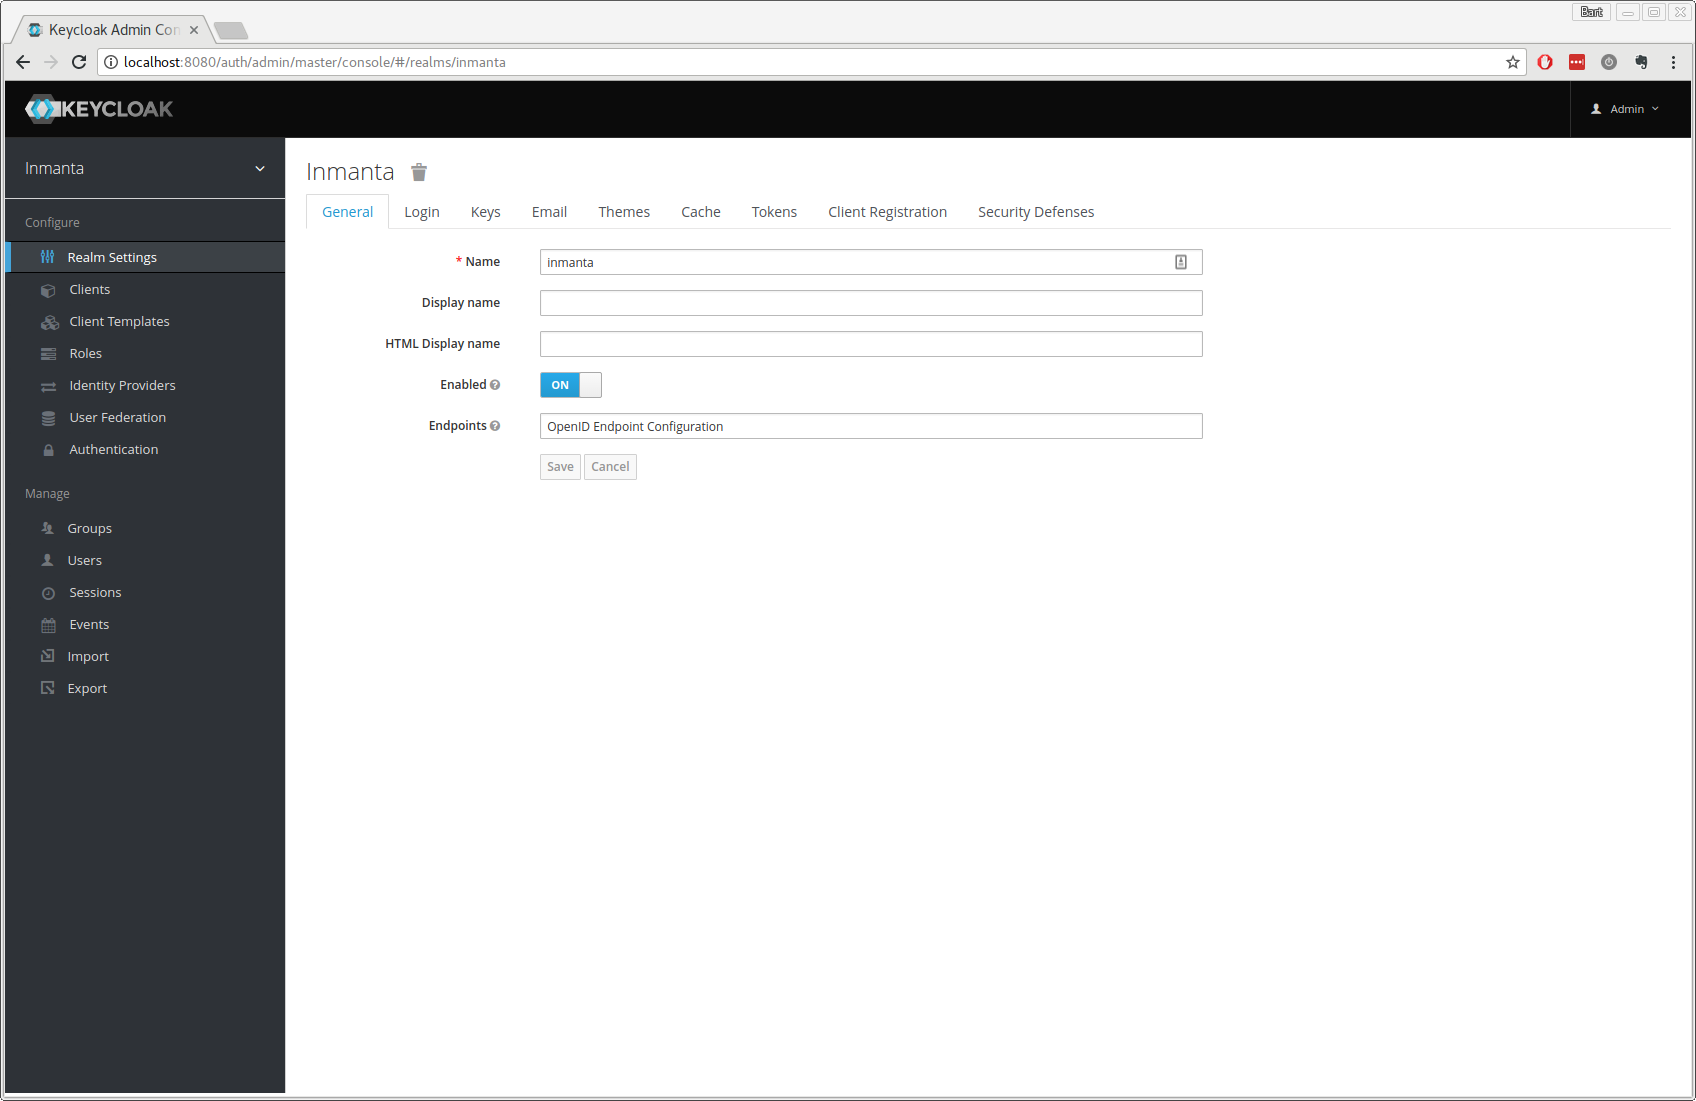
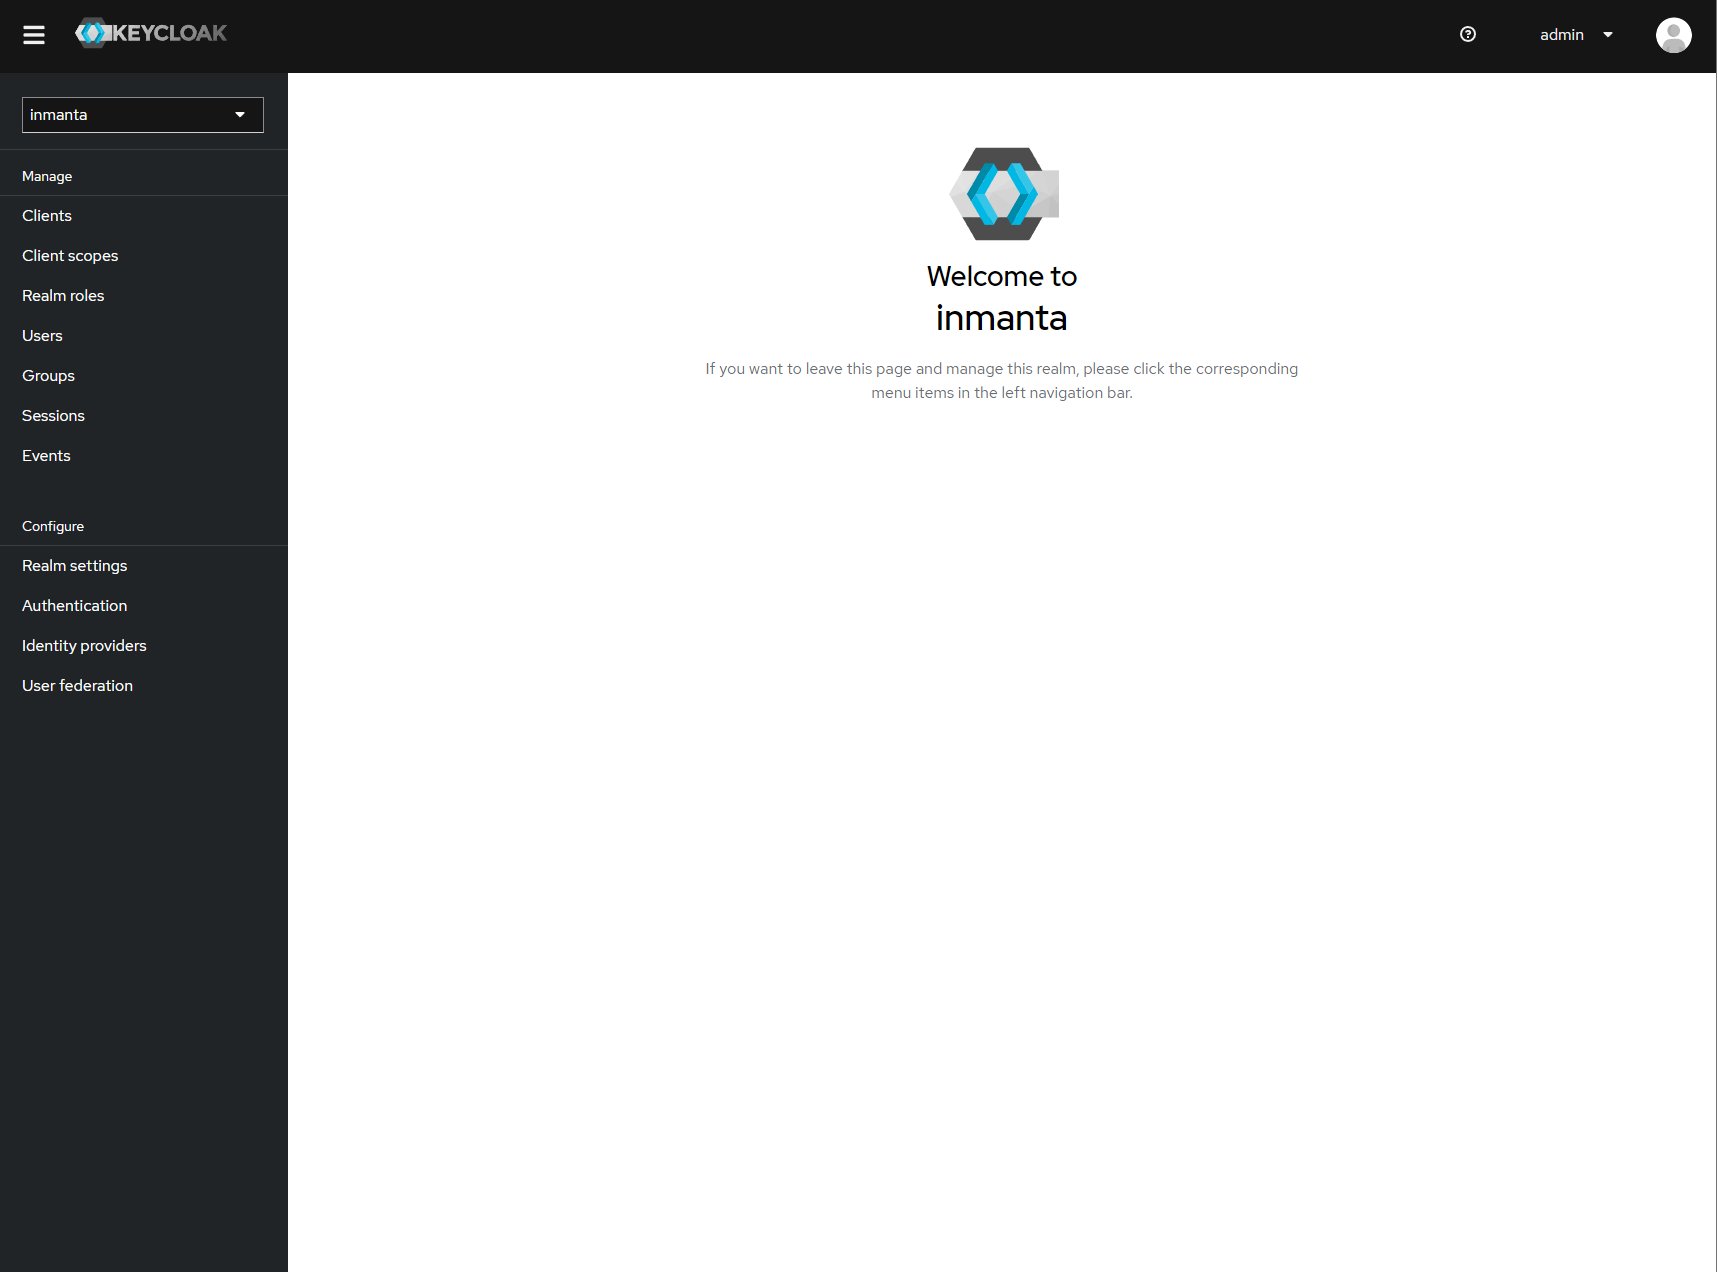
Update the documentation about setting up authentication, to use Keycloak version 20.0 (PR #6165)
# Description

This PR updates the documentation to setup Keycloak. Most of the documentation was still accurate, the screenshots and links have been updated to match Keycloak 20.0 UI.

diff --git a/docs/administrators/auth.rst b/docs/administrators/auth.rst
@@ -172,7 +172,7 @@ Keycloak configuration
 The web-console has out of the box support for authentication with `Keycloak <http://www.keycloak.org>`_. Install keycloak and
 create an initial login as described in the Keycloak documentation and login with admin credentials.
 
-This guide was made based on Keycloak 3.3
+This guide was made based on Keycloak 20.0
 
 If inmanta is configured to use SSL, the authentication provider should also use SSL. Otherwise, the web-console will not be
 able to fetch user information from the authentication provider.
@@ -203,16 +203,15 @@ For example call the realm inmanta
 Step 2: Add a new client to keycloak
 ^^^^^^^^^^^^^^^^^^^^^^^^^^^^^^^^^^^^
 
-Make sure the correct realm is active (the name is shown in the title of the left sidebar) to which you want to add a new client.
+Make sure the correct realm is active (the name is shown in the realm selection dropdown) to which you want to add a new client.
 
 .. figure:: /administrators/images/kc_start.png
    :width: 100%
    :align: center
 
-   The start page of a realm. Here you can edit names, policies, ... of the realm. The defaults are sufficient for inmanta
-   authentication. This shows the inmanta realm.
+   The start page of your newly created realm.
 
-Go to client and click create on the right hand side of the screen.
+Go to clients and click create on the right hand side of the screen.
 
 .. figure:: /administrators/images/kc_clients.png
    :width: 100%
@@ -228,17 +227,28 @@ Provide an id for the client and make sure that the client protocol is ``openid-
 
    Create client screen
 
-After clicking save, keycloak opens the configuration of the client. Modify the client to allow implicit flows and add
-vallid callback URLs. As a best practice, also add the allowed origins. See the screenshot below as an example.
+After clicking save, keycloak opens the configuration of the client. Modify the client to allow implicit flows and add valid redirect URIs and valid post logout redirect URIs. As a best practice, also add the allowed web origins. See the screenshot below as an example.
 
 .. figure:: /administrators/images/kc_client_details.png
    :width: 100%
    :align: center
 
+
+.. figure:: /administrators/images/kc_client_details2.png
+   :width: 100%
+   :align: center
+
    Allow implicit flows (others may be disabled) and configure allowed callback urls of the web-console.
 
-Add a mapper to add custom claims to the issued tokens for the API client type. Open de mappers tab of your new client and click
-`add`.
+Go to the client scopes in your Client details.
+
+.. figure:: /administrators/images/kc_client_scopes.png
+   :width: 100%
+   :align: center
+
+   Click on inmantaso-dedicated to edit the dedicated scope and mappers.
+
+Add a mapper to add custom claims to the issued tokens for the API client type. Click on adding a new mapper and select By Configuration.
 
 .. figure:: /administrators/images/kc_mappers.png
    :width: 100%
@@ -255,28 +265,33 @@ added to the access token.
 
    Add the ct claim to all access tokens for this client.
 
-Add a second mapper to add inmanta to the audience (only required for Keycloak 4.6 and higher). Click `add` again as in the
-previous step. Fill in the following values:
+Add a second mapper to add inmanta to the audience (only required for Keycloak 4.6 and higher). Click `add` again as in the previous step. 
 
-* Name: inmanta-audience
-* Mapper type: Audience
-* Included Client Audience: inmanta
-* Add to access token: on
+.. figure:: /administrators/images/kc_audience_mapper.png
+   :width: 100%
+   :align: center
+      
+   Fill in the following values:
+
+   * Name: inmanta-audience
+   * Mapper type: Audience
+   * Included Client Audience: inmanta
+   * Add to access token: on
 
 Click save.
 
 Step 3: Configure inmanta server
 ^^^^^^^^^^^^^^^^^^^^^^^^^^^^^^^^
 
-Go to the installation tab and select JSON format in the select box. This JSON string provides you with the details to
-configure the server correctly to redirect web-console users to this keycloak instance and to validate the tokens
-issued by keycloak.
-
 .. figure:: /administrators/images/kc_install.png
    :width: 100%
    :align: center
 
-   Show the correct configuration parameters in JSON format.
+   Show the correct configuration parameters in JSON format. (Click on the top right dropdown 'Action' and pick 'Download adapter config'.)
+
+Select JSON format in the select box. This JSON string provides you with the details to
+configure the server correctly to redirect web-console users to this keycloak instance and to validate the tokens
+issued by keycloak.
 
 Add the keycloak configuration parameters to the web-ui section of the server configuration file. Add a configuration
 file called `/etc/inmanta/inmanta.d/keycloak.cfg`. Add the oidc_realm, oidc_auth_url and oidc_client_id to the web-ui section. Use
@@ -284,11 +299,11 @@ the parameters from the installation json file created by keycloak.
 
 .. code-block:: ini
 
-    [web-ui]
-    # generic OpenID connect configuration
-    oidc_realm=master
-    oidc_auth_url=http://localhost:8080/auth
-    oidc_client_id=inmanta
+   [web-ui]
+   # generic OpenID connect configuration
+   oidc_realm=inmanta
+   oidc_auth_url=http://localhost:8080
+   oidc_client_id=inmantaso
 
 .. warning:: In a real setup, the url should contain public names instead of localhost, otherwise logins will only work
    on the machine that hosts inmanta server.
@@ -297,13 +312,18 @@ Configure a ``auth_jwt_`` block (for example ``auth_jwt_keycloak``) and configur
 
 .. code-block:: ini
 
-    [auth_jwt_keycloak]
-    algorithm=RS256
-    sign=false
-    client_types=api
-    issuer=http://localhost:8080/auth/realms/master
-    audience=inmanta
-    jwks_uri=http://localhost:8080/auth/realms/master/protocol/openid-connect/certs
+   [server]
+   auth=true
+
+   [auth_jwt_keycloak]
+   algorithm=RS256
+   sign=false
+   client_types=api
+   issuer=http://localhost:8080/realms/inmanta
+   audience=inmantaso
+   jwks_uri=http://keycloak:8080/realms/inmanta/protocol/openid-connect/certs
+   validate_cert=false
+
 
 Set the algorithm to RS256, sign should be false and client_types should be limited to api only. Next set the issuer to the
 correct value (watch out for the realm). Set the audience to the value of the resource key in the json file. Finally, set the
@@ -311,7 +331,7 @@ jwks_uri so the server knows how to fetch the public keys to verify the signatur
 able to access this url).
 
 Both the correct url for the issuer and the jwks_uri is also defined in the openid-configuration endpoint of keycloack. For
-the examples above this url is http://localhost:8080/auth/realms/master/.well-known/openid-configuration
+the examples above this url is http://localhost:8080/realms/inmanta/.well-known/openid-configuration
 (https://www.keycloak.org/docs/latest/securing_apps/index.html#endpoints)
 
 .. warning:: When the certificate of keycloak is not trusted by the system on which inmanta is installed, set ``validate_cert``
